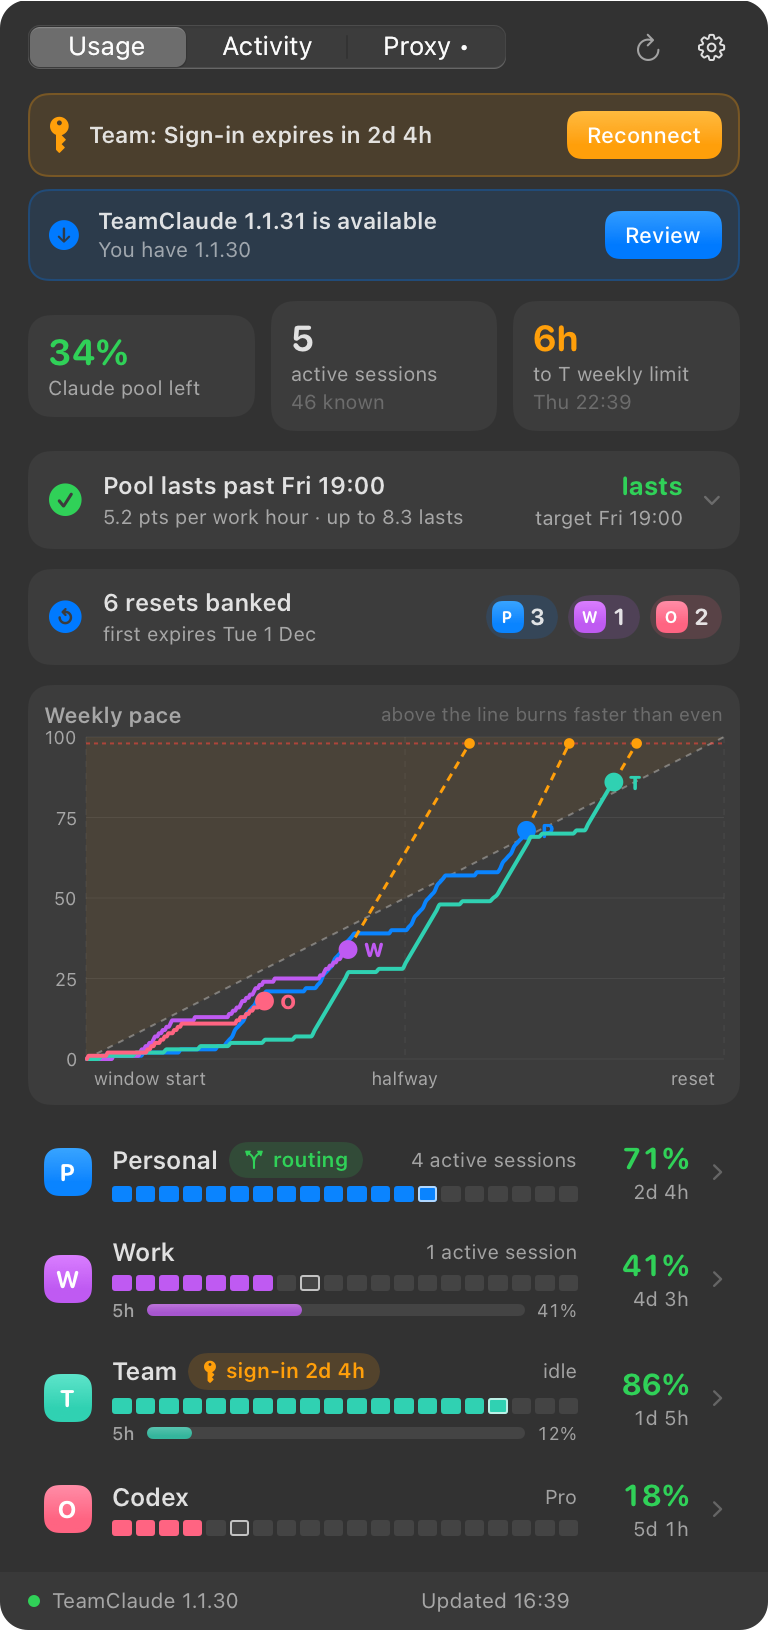
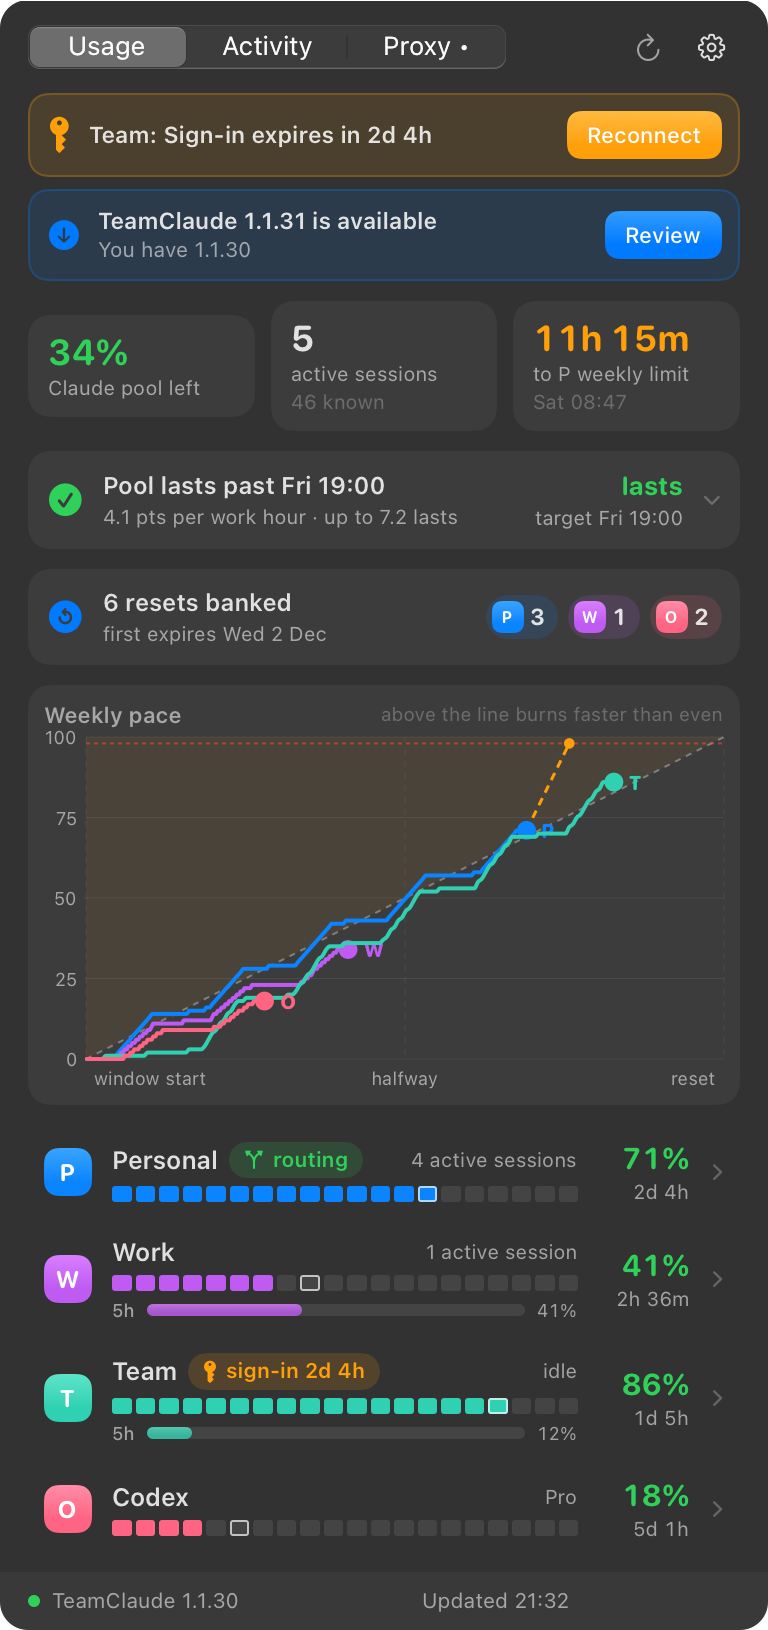
fix: color each row bar by its own window
After a banked reset cleared an account's weekly limit, its row kept a
red weekly bar: the bar took the account's level, which the 5-hour
window had pushed back to 98%, while its fill showed the weekly 17%.
The figure beside it was the 5-hour 98% over the weekly countdown.

The weekly and 5-hour bars now take the level of the window they draw,
and the countdown under the figure is for the window the figure comes
from: when a full account is usable again, otherwise the reset of its
fullest window.

`--demo --snapshot` renders the case as `usage-reset-*`.

diff --git a/Sources/RunoutBar/UsageTab.swift b/Sources/RunoutBar/UsageTab.swift
@@ -265,7 +265,6 @@ struct AccountRow: View {
         let stale = account.isStale(at: model.now)
         let weekly = account.weekly
         let fiveHour = account.window("5h")
-        let color = stale ? Color.secondary : tierColor(identity)
         Button {
             model.selectedAccount = account.id
         } label: {
@@ -285,13 +284,15 @@ struct AccountRow: View {
                         Text(subtitle(stale: stale)).font(.system(size: 10)).foregroundStyle(.secondary).lineLimit(1)
                     }
                     SegmentBar(used: stale ? nil : weekly?.used,
-                               even: weekly.flatMap { $0.elapsed(at: model.now) }.map { $0 * 100 }, color: color)
+                               even: weekly.flatMap { $0.elapsed(at: model.now) }.map { $0 * 100 },
+                               color: stale ? Color.secondary : barColor(weekly, identity))
                     if let fiveHour, !stale {
                         HStack(spacing: 6) {
                             Text("5h").font(.system(size: 9, weight: .medium)).foregroundStyle(.secondary)
-                            CapsuleBar(used: fiveHour.used, color: Color(hex: identity.color).opacity(0.8))
+                            CapsuleBar(used: fiveHour.used, color: barColor(fiveHour, identity).opacity(0.8))
                             Text(Format.percent(fiveHour.used)).font(.system(size: 9)).monospacedDigit()
-                                .foregroundStyle(.secondary)
+                                .foregroundStyle(fiveHour.tier(full: model.proxy.threshold) == .full
+                                                 ? AnyShapeStyle(Palette.red) : AnyShapeStyle(.secondary))
                         }
                     }
                 }
@@ -299,7 +300,8 @@ struct AccountRow: View {
                     Text(stale ? "—" : Format.percent(account.peak))
                         .font(.system(size: 15, weight: .bold, design: .rounded)).monospacedDigit()
                         .foregroundStyle(stale ? .secondary : Palette.level(account.peak, full: model.proxy.threshold))
-                    Text(Format.until(weekly?.resetsAt, now: model.now))
+                    // The reset of the window the figure above is for, which is not always the weekly one.
+                    Text(Format.until(account.headlineReset(full: model.proxy.threshold), now: model.now))
                         .font(.system(size: 10)).monospacedDigit().foregroundStyle(.secondary)
                 }
                 .frame(width: 46, alignment: .trailing)
@@ -318,8 +320,10 @@ struct AccountRow: View {
         return "sign-in \(Format.duration(end.timeIntervalSince(model.now)))"
     }
 
-    private func tierColor(_ identity: AccountIdentity) -> Color {
-        switch account.tier(at: model.now, full: model.proxy.threshold) {
+    /// A bar takes the level of the window it draws, not of the account: after a banked reset the weekly
+    /// bar is low again and must not stay red because the session window filled.
+    private func barColor(_ window: LimitWindow?, _ identity: AccountIdentity) -> Color {
+        switch window?.tier(full: model.proxy.threshold) {
         case .full: return Palette.red
         case .high: return Palette.amber
         default: return Color(hex: identity.color)

diff --git a/Tests/RunoutCoreTests/RunoutCoreTests.swift b/Tests/RunoutCoreTests/RunoutCoreTests.swift
@@ -227,6 +227,45 @@ private func ms(_ date: Date) -> Double { date.timeIntervalSince1970 * 1000 }
         account.fetchedAt = now.addingTimeInterval(-600)
         #expect(account.tier(at: now) == nil)  // stale readings carry no tier
     }
+
+    func session(used: Double, resetIn: TimeInterval?) -> LimitWindow {
+        LimitWindow(id: "5h", title: "5-hour", used: used, resetsAt: resetIn.map { now.addingTimeInterval($0) },
+                    duration: 18_000)
+    }
+
+    /// After a banked reset the weekly window is low again while the session can fill within hours.
+    @Test func theHeadlineCountsDownToTheWindowItShows() {
+        var account = AccountSnapshot(id: "a", provider: .claude)
+        account.windows = [session(used: 98, resetIn: 3 * 3600), weekly(used: 17, resetIn: 61 * 3600)]
+        #expect(account.peak == 98)
+        #expect(account.headlineReset() == now.addingTimeInterval(3 * 3600))
+
+        // Not full: still the reset of the window the figure is taken from.
+        account.windows = [session(used: 41, resetIn: 2 * 3600), weekly(used: 35, resetIn: 99 * 3600)]
+        #expect(account.headlineReset() == now.addingTimeInterval(2 * 3600))
+        account.windows = [session(used: 12, resetIn: 2 * 3600), weekly(used: 86, resetIn: 29 * 3600)]
+        #expect(account.headlineReset() == now.addingTimeInterval(29 * 3600))
+    }
+
+    @Test func aFullAccountCountsDownToWhenItIsUsableAgain() {
+        var account = AccountSnapshot(id: "a", provider: .claude)
+        // Both windows are exhausted: the session's reset alone does not bring the account back.
+        account.windows = [session(used: 99, resetIn: 3600), weekly(used: 98, resetIn: 40 * 3600)]
+        #expect(account.headlineReset() == now.addingTimeInterval(40 * 3600))
+        // A full window that states no reset says nothing about when; the figure's own window is all there is.
+        account.windows = [session(used: 99, resetIn: nil), weekly(used: 20, resetIn: 40 * 3600)]
+        #expect(account.headlineReset() == nil)
+        account.windows = []
+        #expect(account.headlineReset() == nil)
+    }
+
+    @Test func eachWindowHasItsOwnLevel() {
+        #expect(session(used: 98, resetIn: 60).tier() == .full)
+        #expect(weekly(used: 17, resetIn: 60).tier() == .ok)
+        #expect(weekly(used: 93, resetIn: 60).tier(full: 95) == .high)
+        #expect(weekly(used: 96, resetIn: 60).tier(full: 95) == .full)
+        #expect(LimitWindow(id: "7d", title: "Weekly", used: nil, resetsAt: nil, duration: nil).tier() == nil)
+    }
 }
 
 @Suite struct HistoryTests {

diff --git a/Sources/RunoutBar/AppModel.swift b/Sources/RunoutBar/AppModel.swift
@@ -1069,6 +1069,21 @@ final class AppModel {
 
     func addAccount() async { await reconnect(Self.newAccount) }
 
+    /// An account right after a banked reset, for snapshot rendering: its weekly window is low again and
+    /// its session window has filled since.
+    func showResetSpentForSnapshot() {
+        guard readOnly, let index = accounts.firstIndex(where: { $0.provider == .claude && $0.window("5h") != nil })
+        else { return }
+        for at in accounts[index].windows.indices {
+            let window = accounts[index].windows[at]
+            accounts[index].windows[at].used = window.id == "5h" ? proxy.threshold : window.isWeekly ? 17 : window.used
+            if window.id == "5h" { accounts[index].windows[at].resetsAt = now.addingTimeInterval(3 * 3600 + 120) }
+            accounts[index].windows[at].forecast = nil
+        }
+        accounts[index].unavailable = "quota"
+        accounts[index].sessions = 0
+    }
+
     /// A setup state for snapshot rendering. `noAccounts` leaves the proxy running without a Claude account.
     func showSetupForSnapshot(_ finding: TeamClaudeInstall.Finding, _ phase: SetupPhase, blocker: String? = nil,
                               noAccounts: Bool = false, elsewhere: Bool = false) {

diff --git a/Sources/RunoutCore/Analysis.swift b/Sources/RunoutCore/Analysis.swift
@@ -62,6 +62,20 @@ extension AccountSnapshot {
         guard !blocking.isEmpty, blocking.allSatisfy({ $0.resetsAt != nil }) else { return nil }
         return blocking.compactMap(\.resetsAt).max()
     }
+
+    /// The reset that belongs beside `peak`: when a full account is usable again, otherwise the reset of
+    /// the window the figure is taken from. After a banked reset the weekly window is low while the
+    /// session fills within hours, and the weekly reset would then count down to the wrong thing.
+    public func headlineReset(full: Double = Levels.full) -> Date? {
+        freeAgainAt(full: full) ?? peakWindow?.resetsAt
+    }
+}
+
+extension LimitWindow {
+    /// The window's own level, for a bar that draws this window alone.
+    public func tier(full: Double = Levels.full) -> Tier? {
+        used.map { Levels.tier($0, full: full) }
+    }
 }
 
 public struct Pace: Sendable, Hashable {

diff --git a/Sources/RunoutBar/SnapshotRunner.swift b/Sources/RunoutBar/SnapshotRunner.swift
@@ -88,6 +88,10 @@ enum SnapshotRunner {
             // A Mac without TeamClaude, the install under way, and a proxy with no account yet. Nothing is installed.
             if model.demo {
                 model.selectedAccount = nil
+                // An account whose weekly limit was just cleared by a banked reset, with its session full.
+                model.showResetSpentForSnapshot()
+                await render(model, scheme: scheme, to: directory.appendingPathComponent("usage-reset-\(suffix).png"))
+                await model.refresh(force: true)
                 model.showSetupForSnapshot(.missing(traces: false), .idle, blocker: "It needs Node.js "
                     + "\(TeamClaudeInstall.minimumNode) or later, and none was found. Install Node, for example with: "
                     + "brew install node", noAccounts: true)

diff --git a/README.md b/README.md
@@ -97,7 +97,10 @@ swift run RunoutBar --demo
 - **Usage tab**: Claude capacity left, active sessions and the next projected limit; the pool
   run-out card with the projected time, the target, the margin and the pace that would last; a weekly
   pace chart that compares each account with an even burn through its window and projects where
-  it lands; the banked resets each account holds; and one row per account. Click a row for its
+  it lands; the banked resets each account holds; and one row per account. A row's figure is the
+  account's fullest window, with the time until that window resets; its weekly and 5-hour bars
+  each take the color of their own level, so a weekly bar cleared by a banked reset is not red
+  because the 5-hour window filled. Click a row for its
   timeline per window, forecast, banked resets, sessions, requests, tokens and models. Click the
   run-out card for what the time is built from: the pace, the budget, the work week and what each
   account has left.
